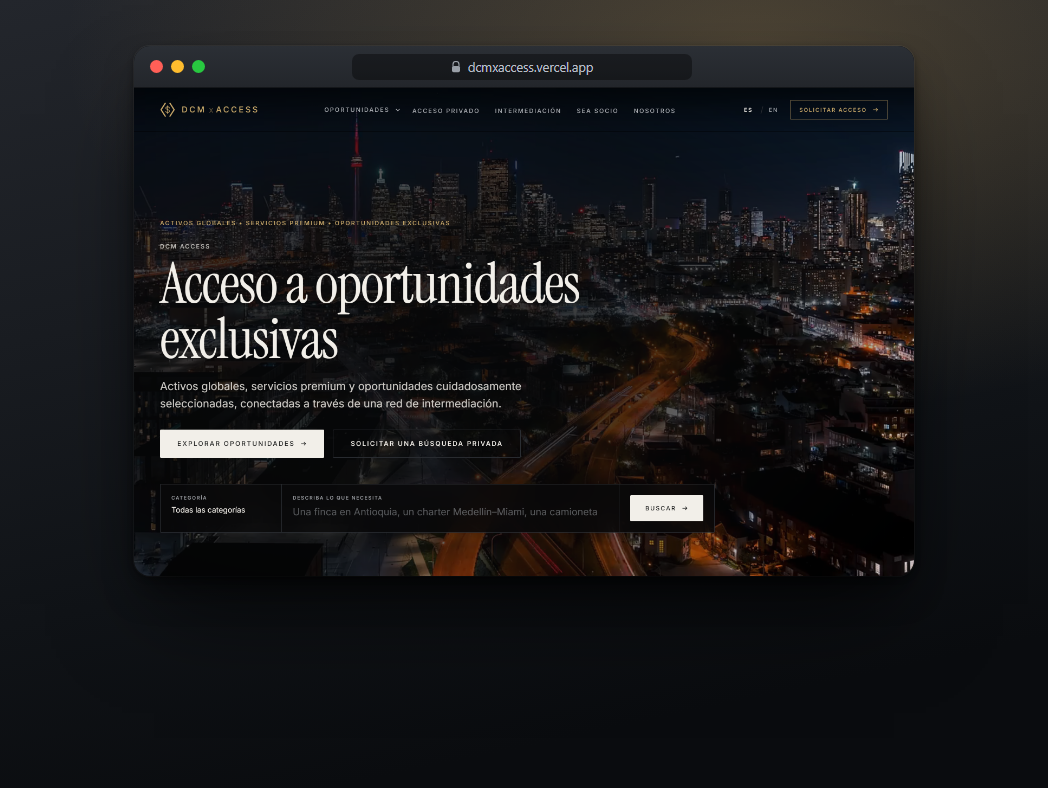
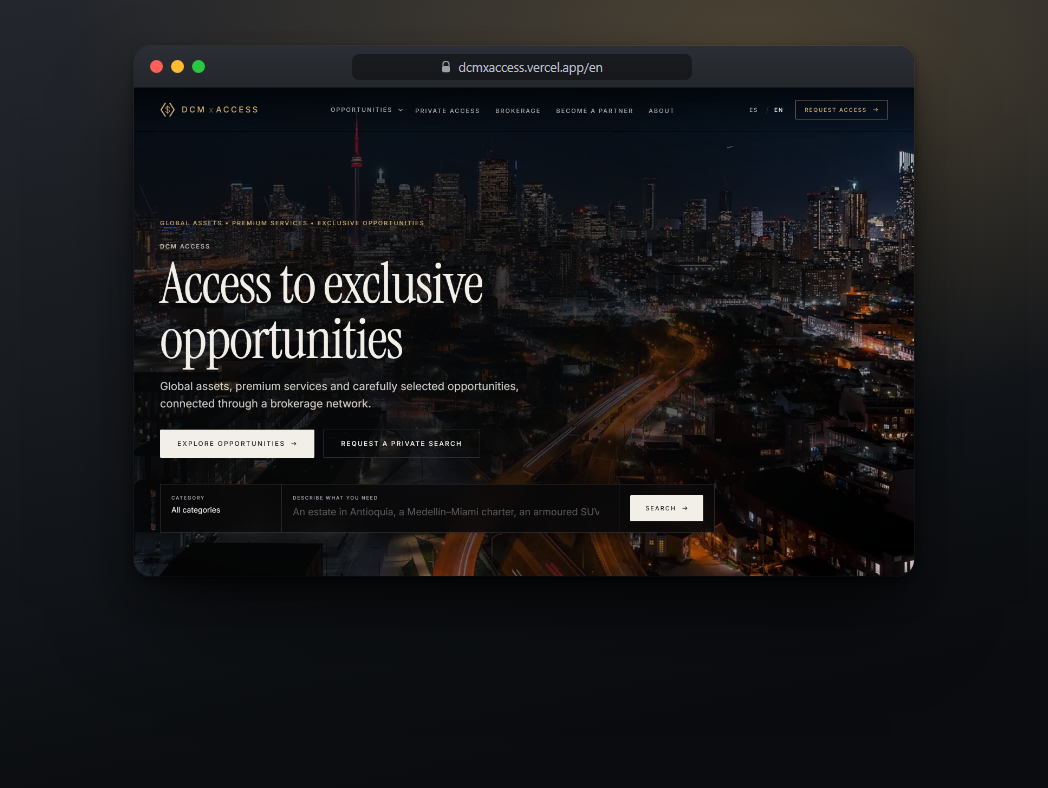
Capture DCM ACCESS in English, and firm up the open-slot copy
The card art was shot on the site's Spanish default while the rest of the
portfolio reads in English. Now taken from /en, with the URL bar showing
the path it was captured from.

The demo banner came back in that shot: the filter that strips it matched
the Spanish string only, so the English "Demonstration content" sailed
through. Widened it to catch both.

Open slots now read "Currently available for new projects. Let's talk."
instead of "A slot for the next project. Yours could go here." — states
availability plainly rather than gesturing at an empty space.

diff --git a/content/site.ts b/content/site.ts
@@ -98,13 +98,13 @@ export const site = {
     },
     {
       title: "Available",
-      description: "A slot for the next project. Yours could go here.",
+      description: "Currently available for new projects. Let's talk.",
       href: "/contact",
       placeholder: true,
     },
     {
       title: "Available",
-      description: "A slot for the next project. Yours could go here.",
+      description: "Currently available for new projects. Let's talk.",
       href: "/contact",
       placeholder: true,
     },
